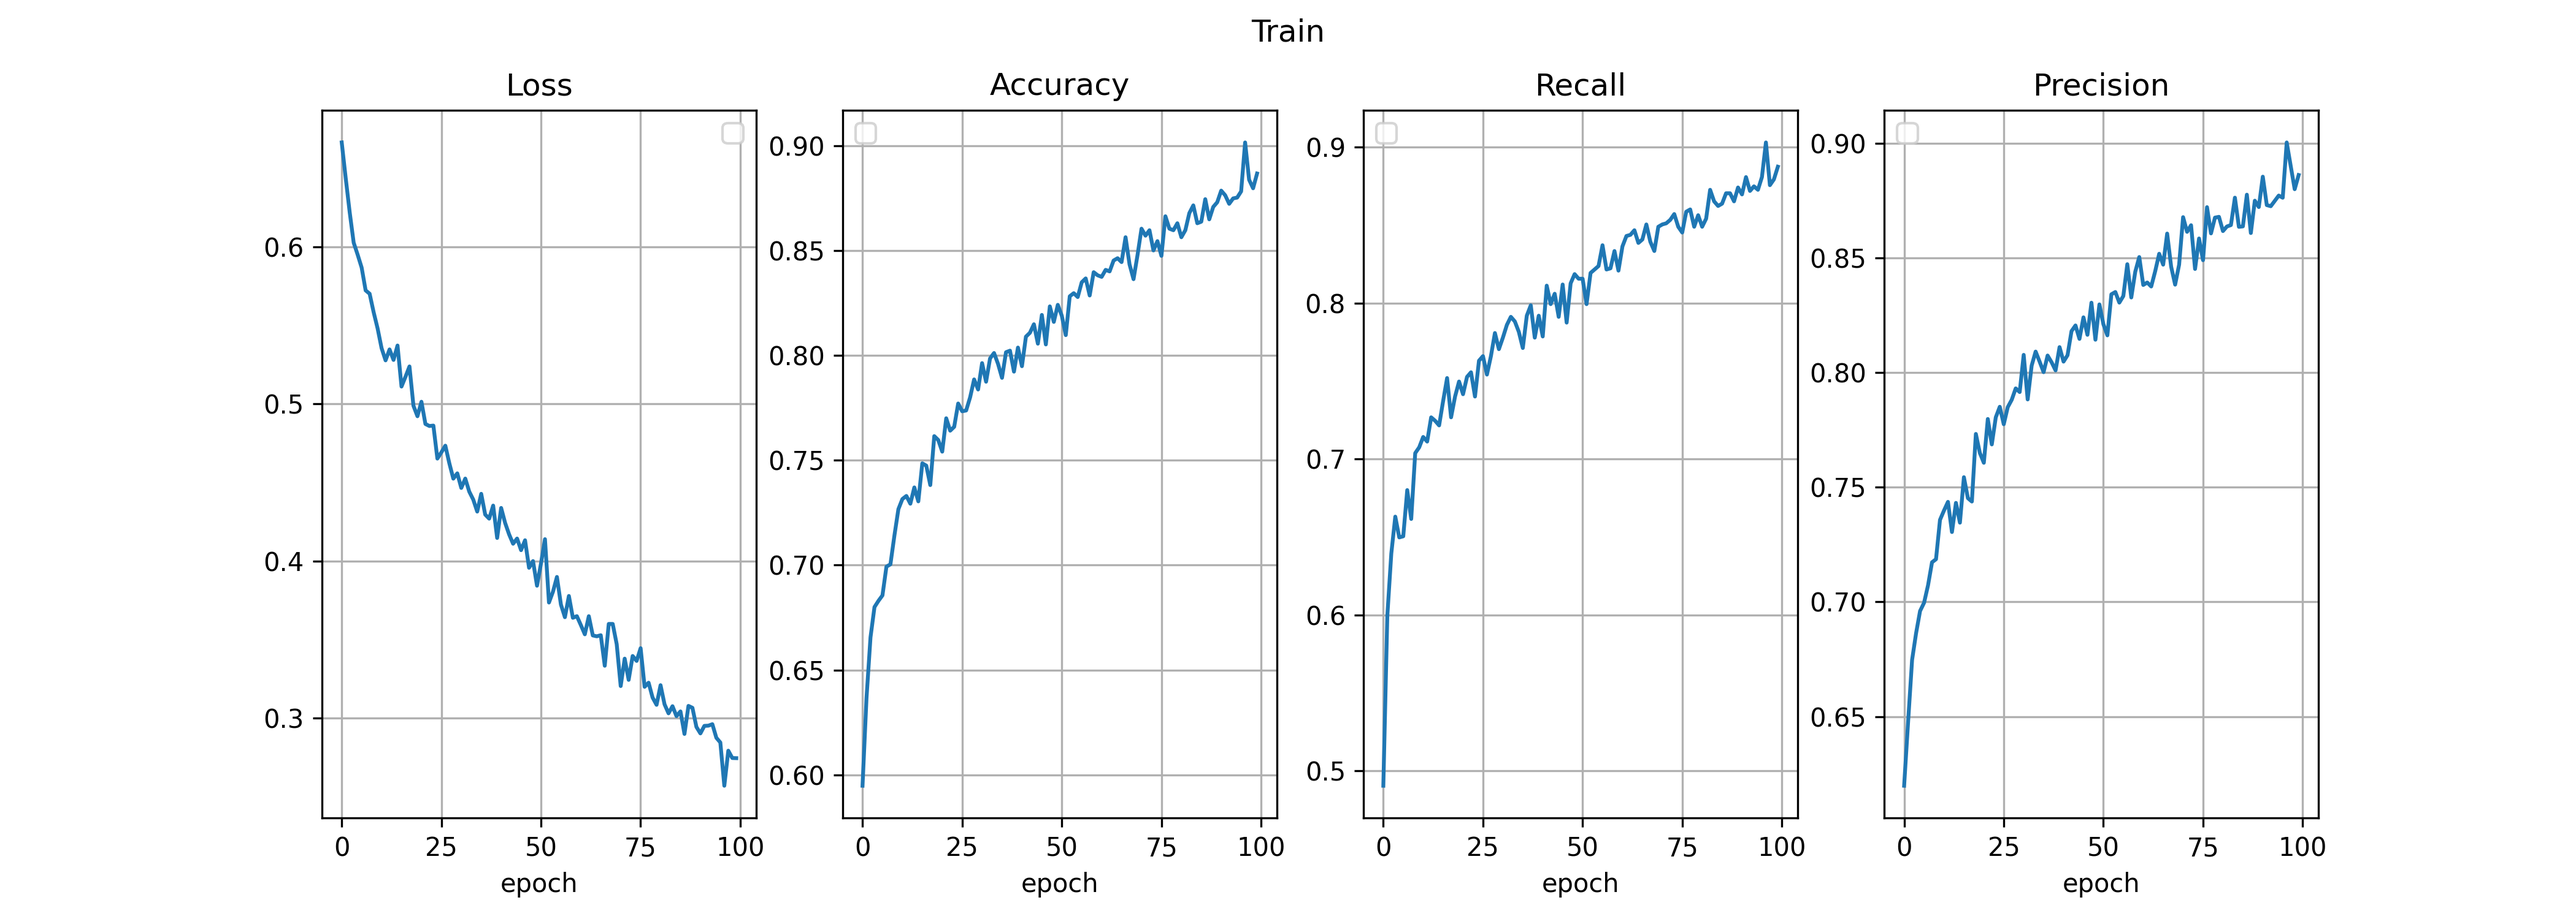
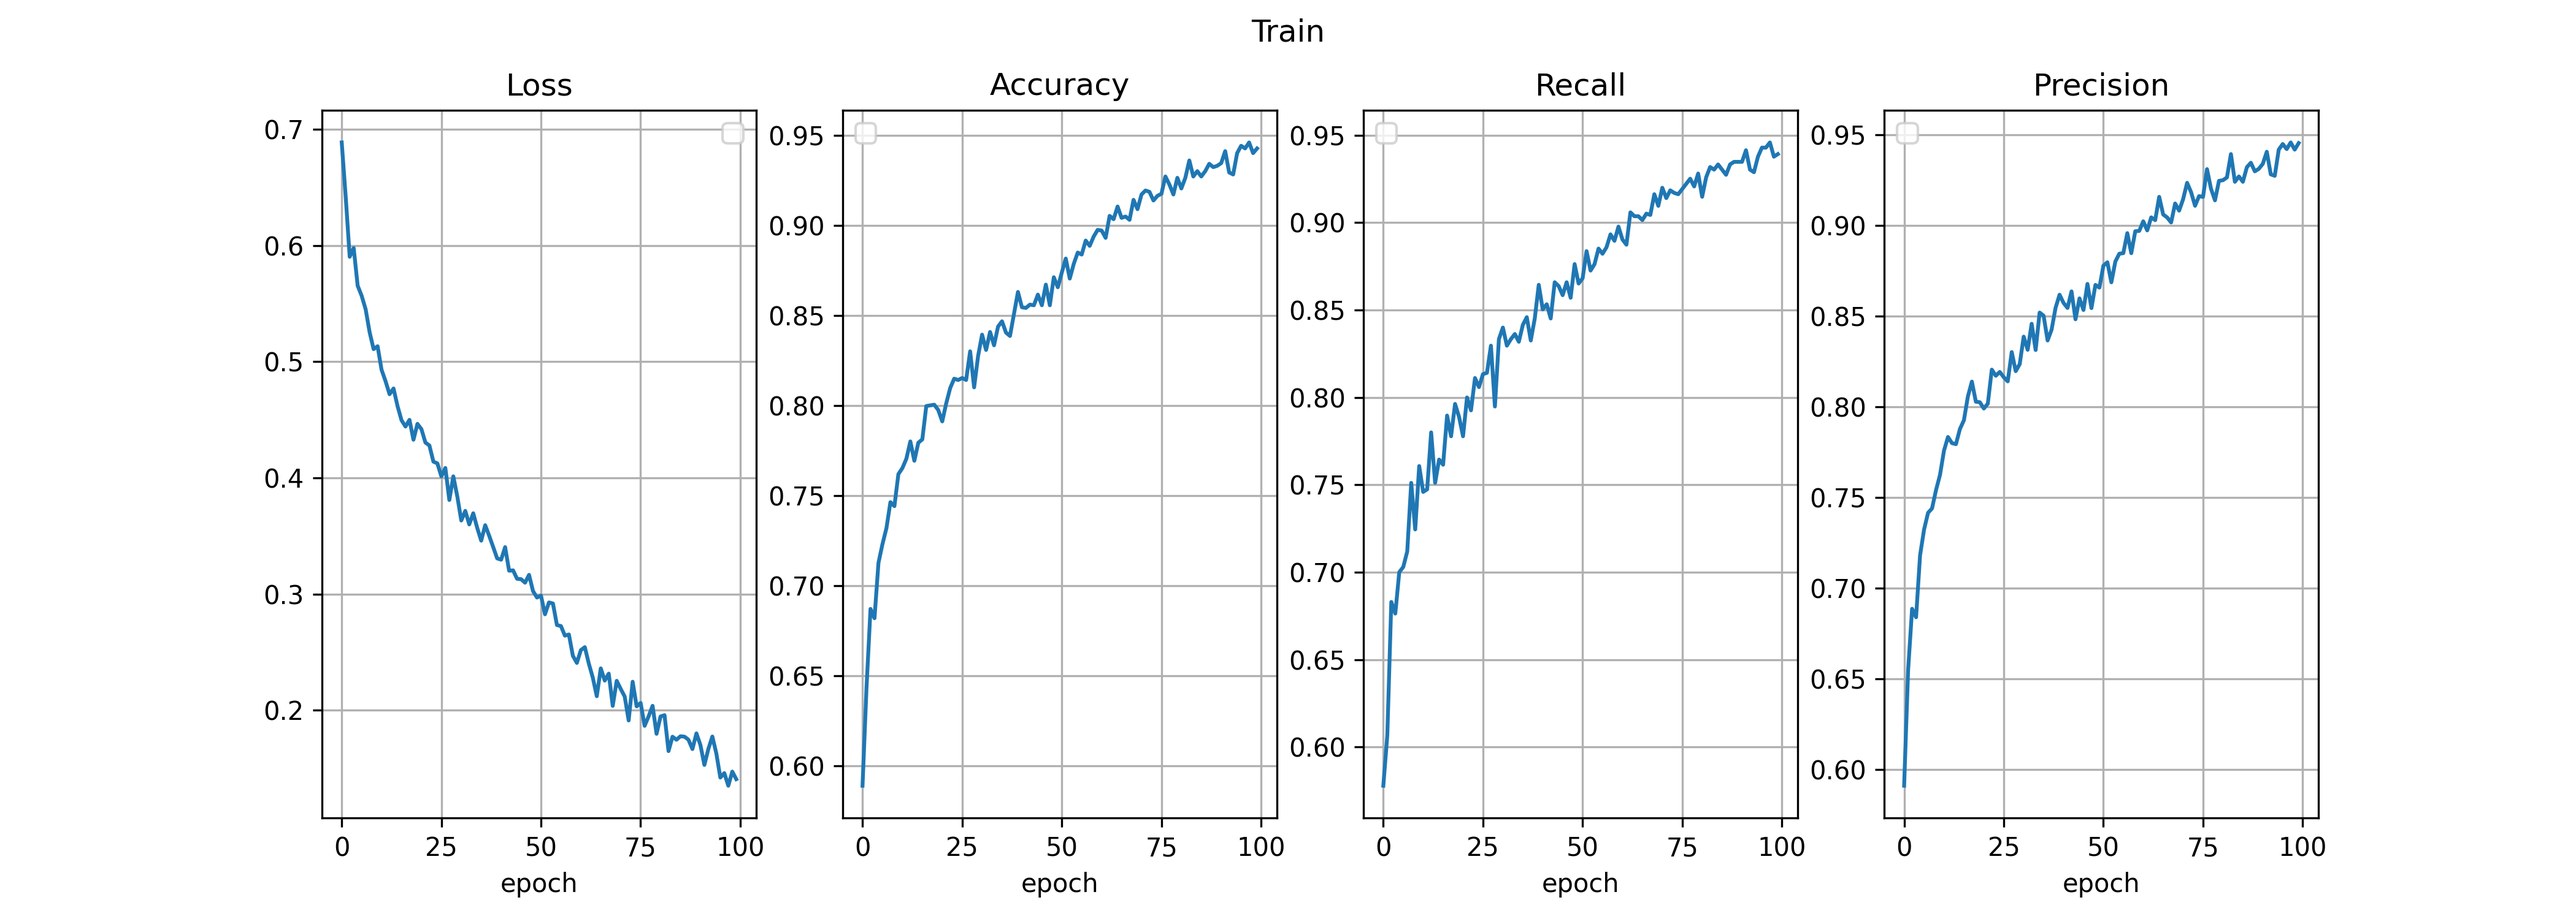
Update saving files

diff --git a/lab1/train.py b/lab1/train.py
@@ -42,7 +42,7 @@ def train(model, device, tloader, vloader, epoch=10, validation=1):
 					  'recall': torchmetrics.classification.BinaryRecall(threshold=0.5).to(device=device)}
 	
 	loss_func = nn.BCEWithLogitsLoss()
-	opt = torch.optim.Adam(model.parameters(), lr=0.01, betas=(0.9, 0.999), eps=1e-8) 
+	opt = torch.optim.Adam(model.parameters(), lr=0.001, betas=(0.9, 0.999), eps=1e-8) 
 
 	current_epoch = 0
 	min_loss = 1e+6
@@ -102,7 +102,8 @@ def train(model, device, tloader, vloader, epoch=10, validation=1):
 		avg_loss = running_loss / len(vloader) 
 		if avg_loss < min_loss:
 			min_loss = avg_loss
-			torch.save(model.state_dict(), f"weights\\best_{epoch}.pth")
+			print("saving...")
+			torch.save(model.state_dict(), f"weights\\best.pth")
 
 		valid_results['loss'].append(running_loss / len(vloader))
 		valid_results['accuracy'].append(valid_metrics['accuracy'].compute().item())
@@ -119,7 +120,7 @@ def train(model, device, tloader, vloader, epoch=10, validation=1):
 			f" recall: {valid_results['recall'][-1]:.2f}")
 	
   
-	torch.save(model.state_dict(), f"weights\\epoch_{epoch}.pth")
+	torch.save(model.state_dict(), f"weights\\last.pth")
 	draw_metrics(train_results, "Train")
 	draw_metrics(valid_results, "Validation")
 
@@ -152,5 +153,4 @@ def test(model, path,  device, tloader):
 	print(f"loss: {avg_loss:.2f}" +
 		 	f" accuracy: {test_metrics['accuracy'].compute().item():.2f}" +
 			f" precision: {test_metrics['recall'].compute().item():.2f}" +
-			f" recall: {test_metrics['precision'].compute().item():.2f}")
-	
+			f" recall: {test_metrics['precision'].compute().item():.2f}")	

diff --git a/lab1/main.py b/lab1/main.py
@@ -23,7 +23,7 @@ def main():
 	test_loader = DataLoader(test_dataset, batch_size=1, shuffle=False)
 
 	#train(model=model, device=device, tloader=train_loader, vloader=valid_loader, epoch=100, validation=10)
-	test(model=model, path="weights\\epoch_100.pth", device=device, tloader=test_loader)
+	test(model=model, path="weights\\last.pth", device=device, tloader=test_loader)
 
 if __name__ == "__main__":
 	main()
